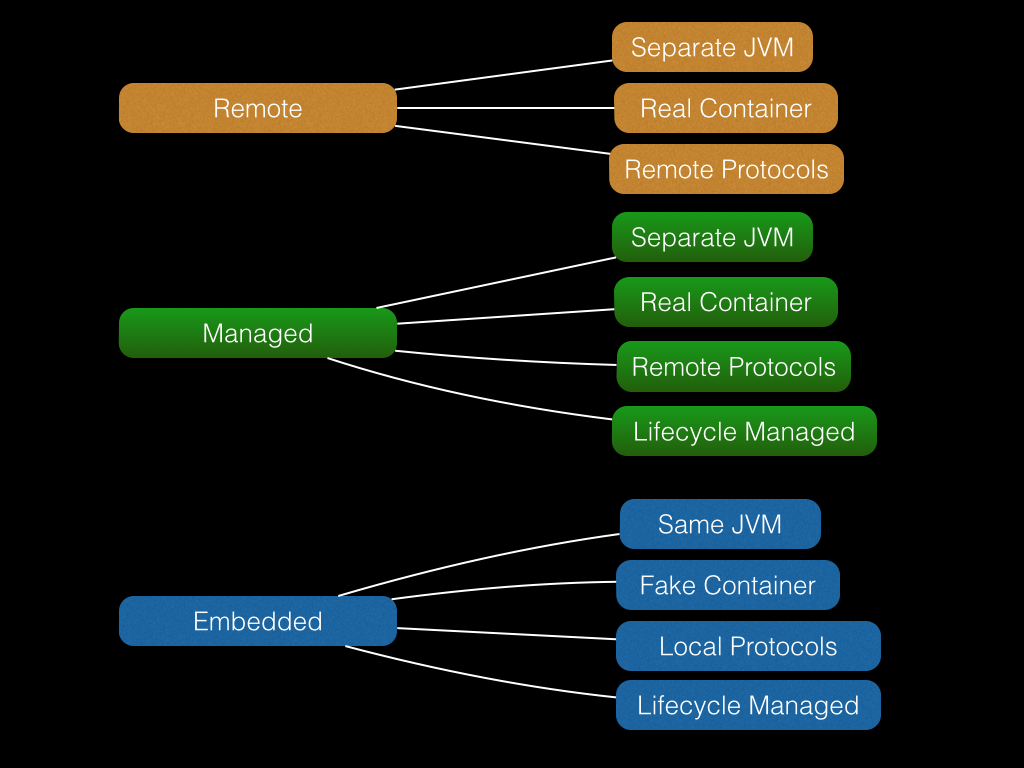
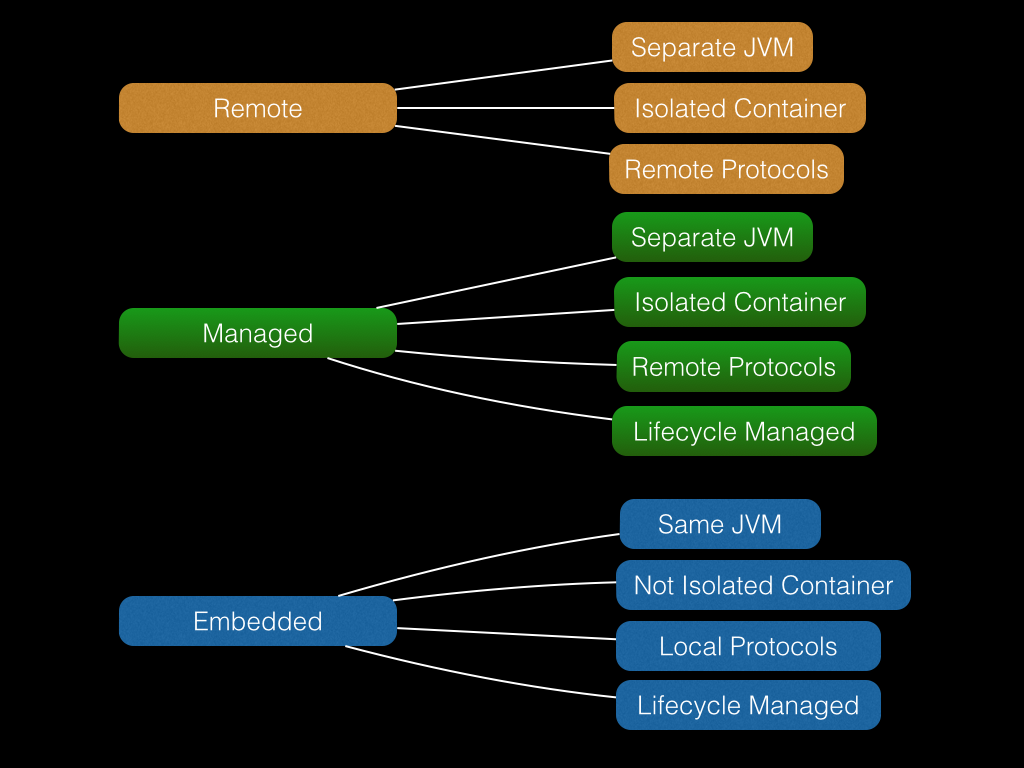
Updated fake container part and added arquillian container dependency

diff --git a/_posts/2015-11-17-How-To-Use-Arquillian(Update).md b/_posts/2015-11-17-How-To-Use-Arquillian(Update).md
@@ -45,7 +45,8 @@ diagram serves as a helper.
 Info:
 
 * Same/Separate JVM: refers to the test runner.
-* Fake/Real Container: this should be pretty obvious but can lead to some unexpected effects as you can read 
+* Isolated/Not Isolated Container: due to the JVM binding (same/separate) a container can have some unexpected effects
+ in not isolated containers as you can read 
 [here](http://arquillian.org/blog/2012/04/13/the-danger-of-embedded-containers).
 * Lifecycle Managed: Means that an container is started as well as shutdown.
 
@@ -59,9 +60,21 @@ The specific container provider can be divided further into the following three 
 
 In order to run an *Arquillian* test you need to do the following three steps:
 
-1. Provide an **arquillian.xml** which declares and configures containers (e.g. arquillian-wildfly-managed)
-2. Provide **arquillian container dependency** 
-3. Provide **arquillian test**
+* Provide an **arquillian.xml** which declares and configures containers (e.g. arquillian-wildfly-managed)
+* Provide **arquillian container dependency** 
+    {% highlight java linenos%}
+    <plugin>
+      <artifactId>maven-surefire-plugin</artifactId>
+      <version>2.19</version>
+     <configuration>
+         <systemPropertyVariables>
+                <!-- reference to arquillian.xml container -->
+                <arquillian.launch>arquillian-wildfly-managed</arquillian.launch>
+            </systemPropertyVariables>
+     </configuration>
+    </plugin>
+    {% endhighlight %}
+* Provide **arquillian test**
 
 {% highlight java linenos%}
 @Stateless
